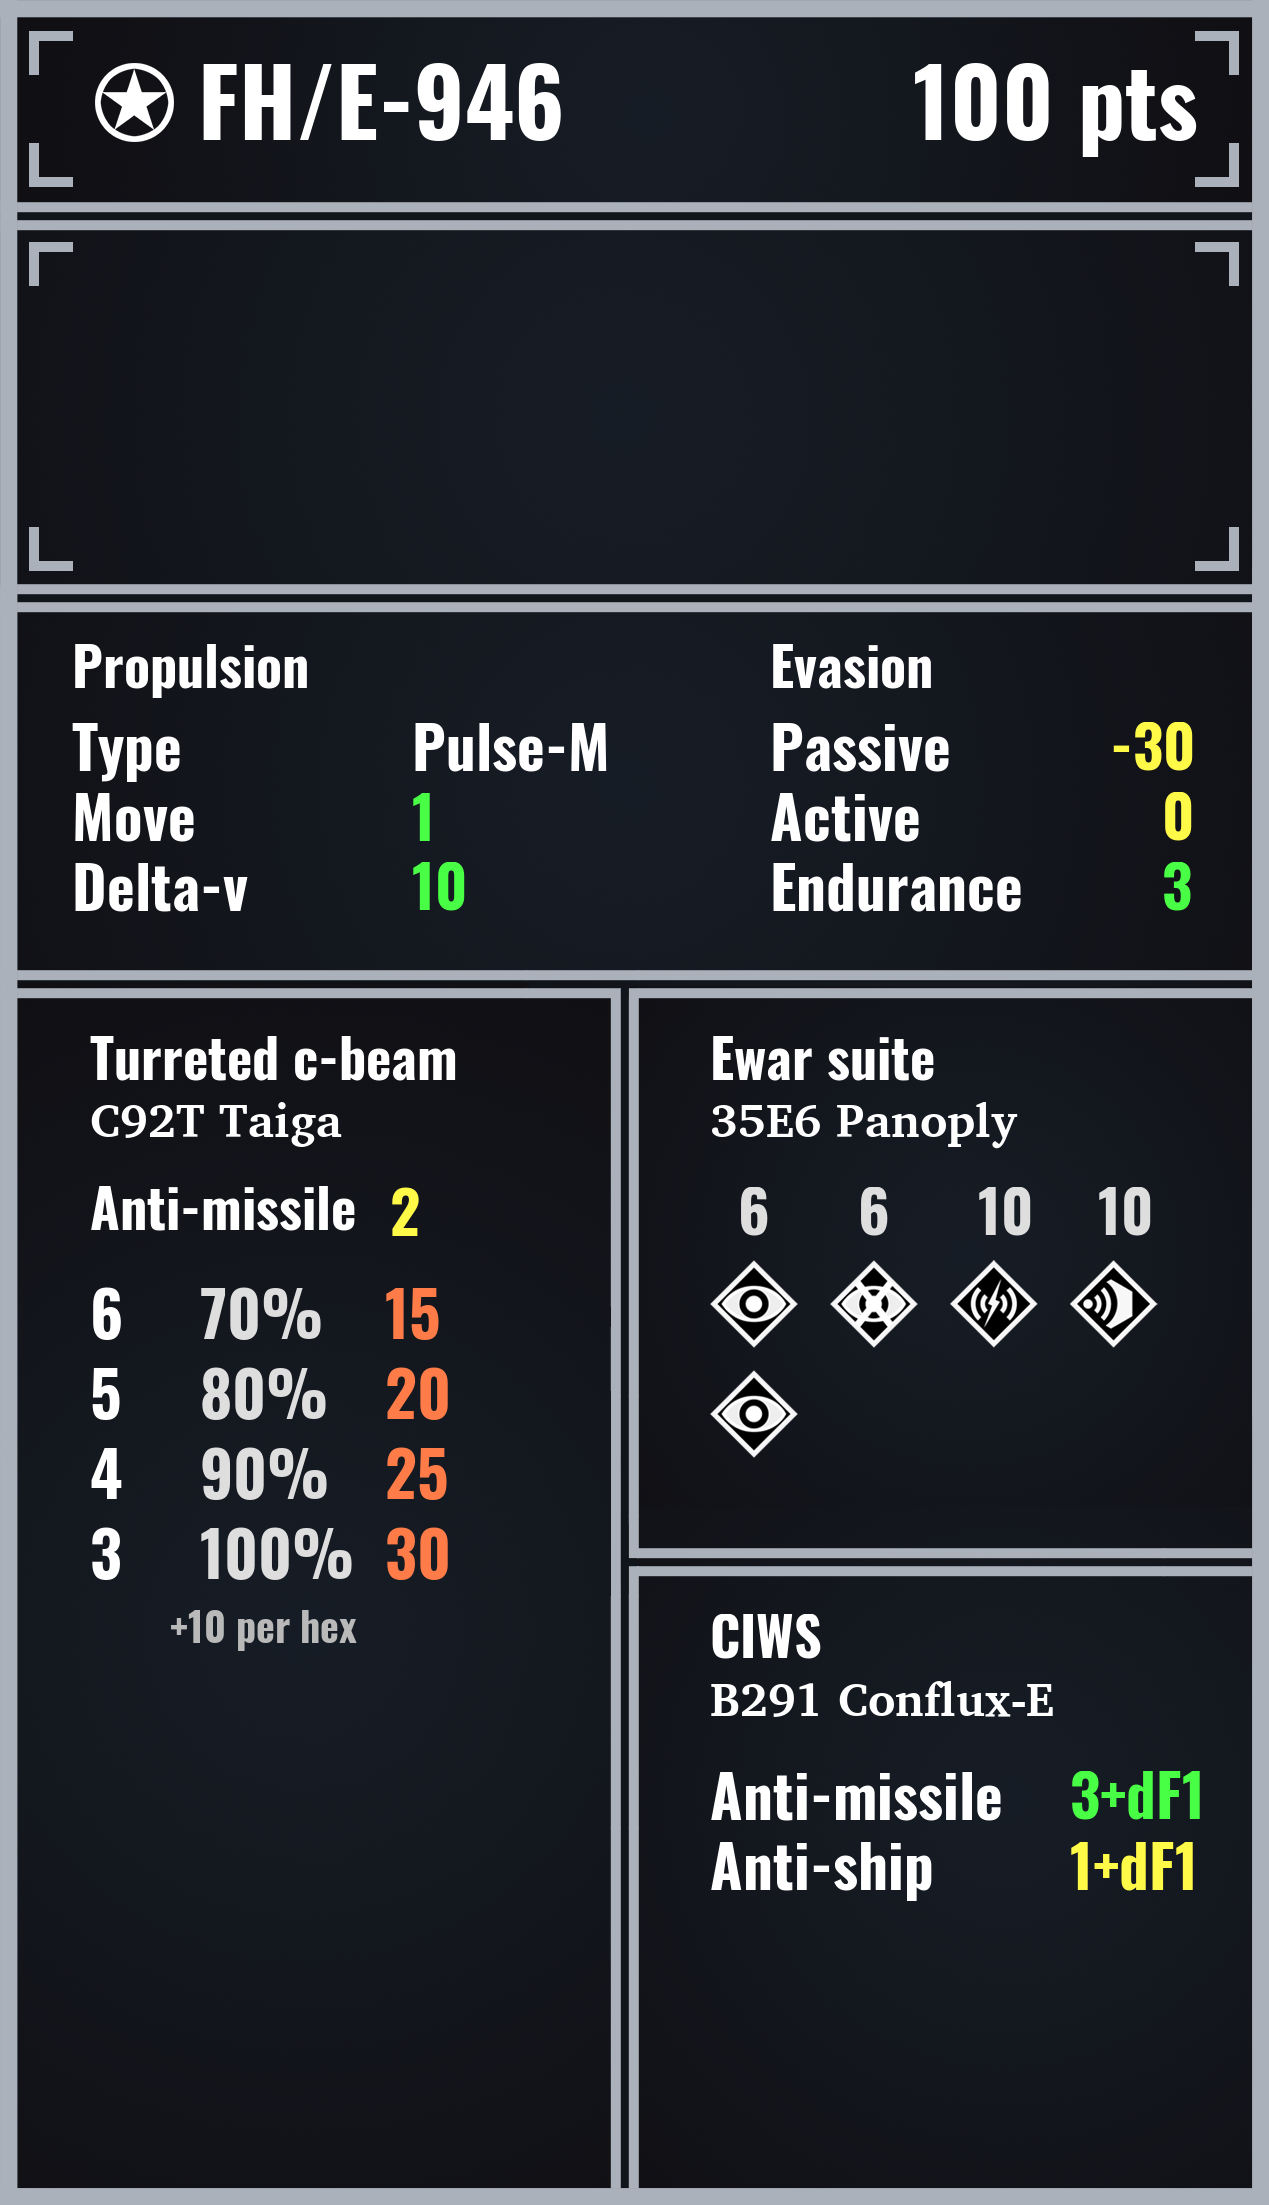
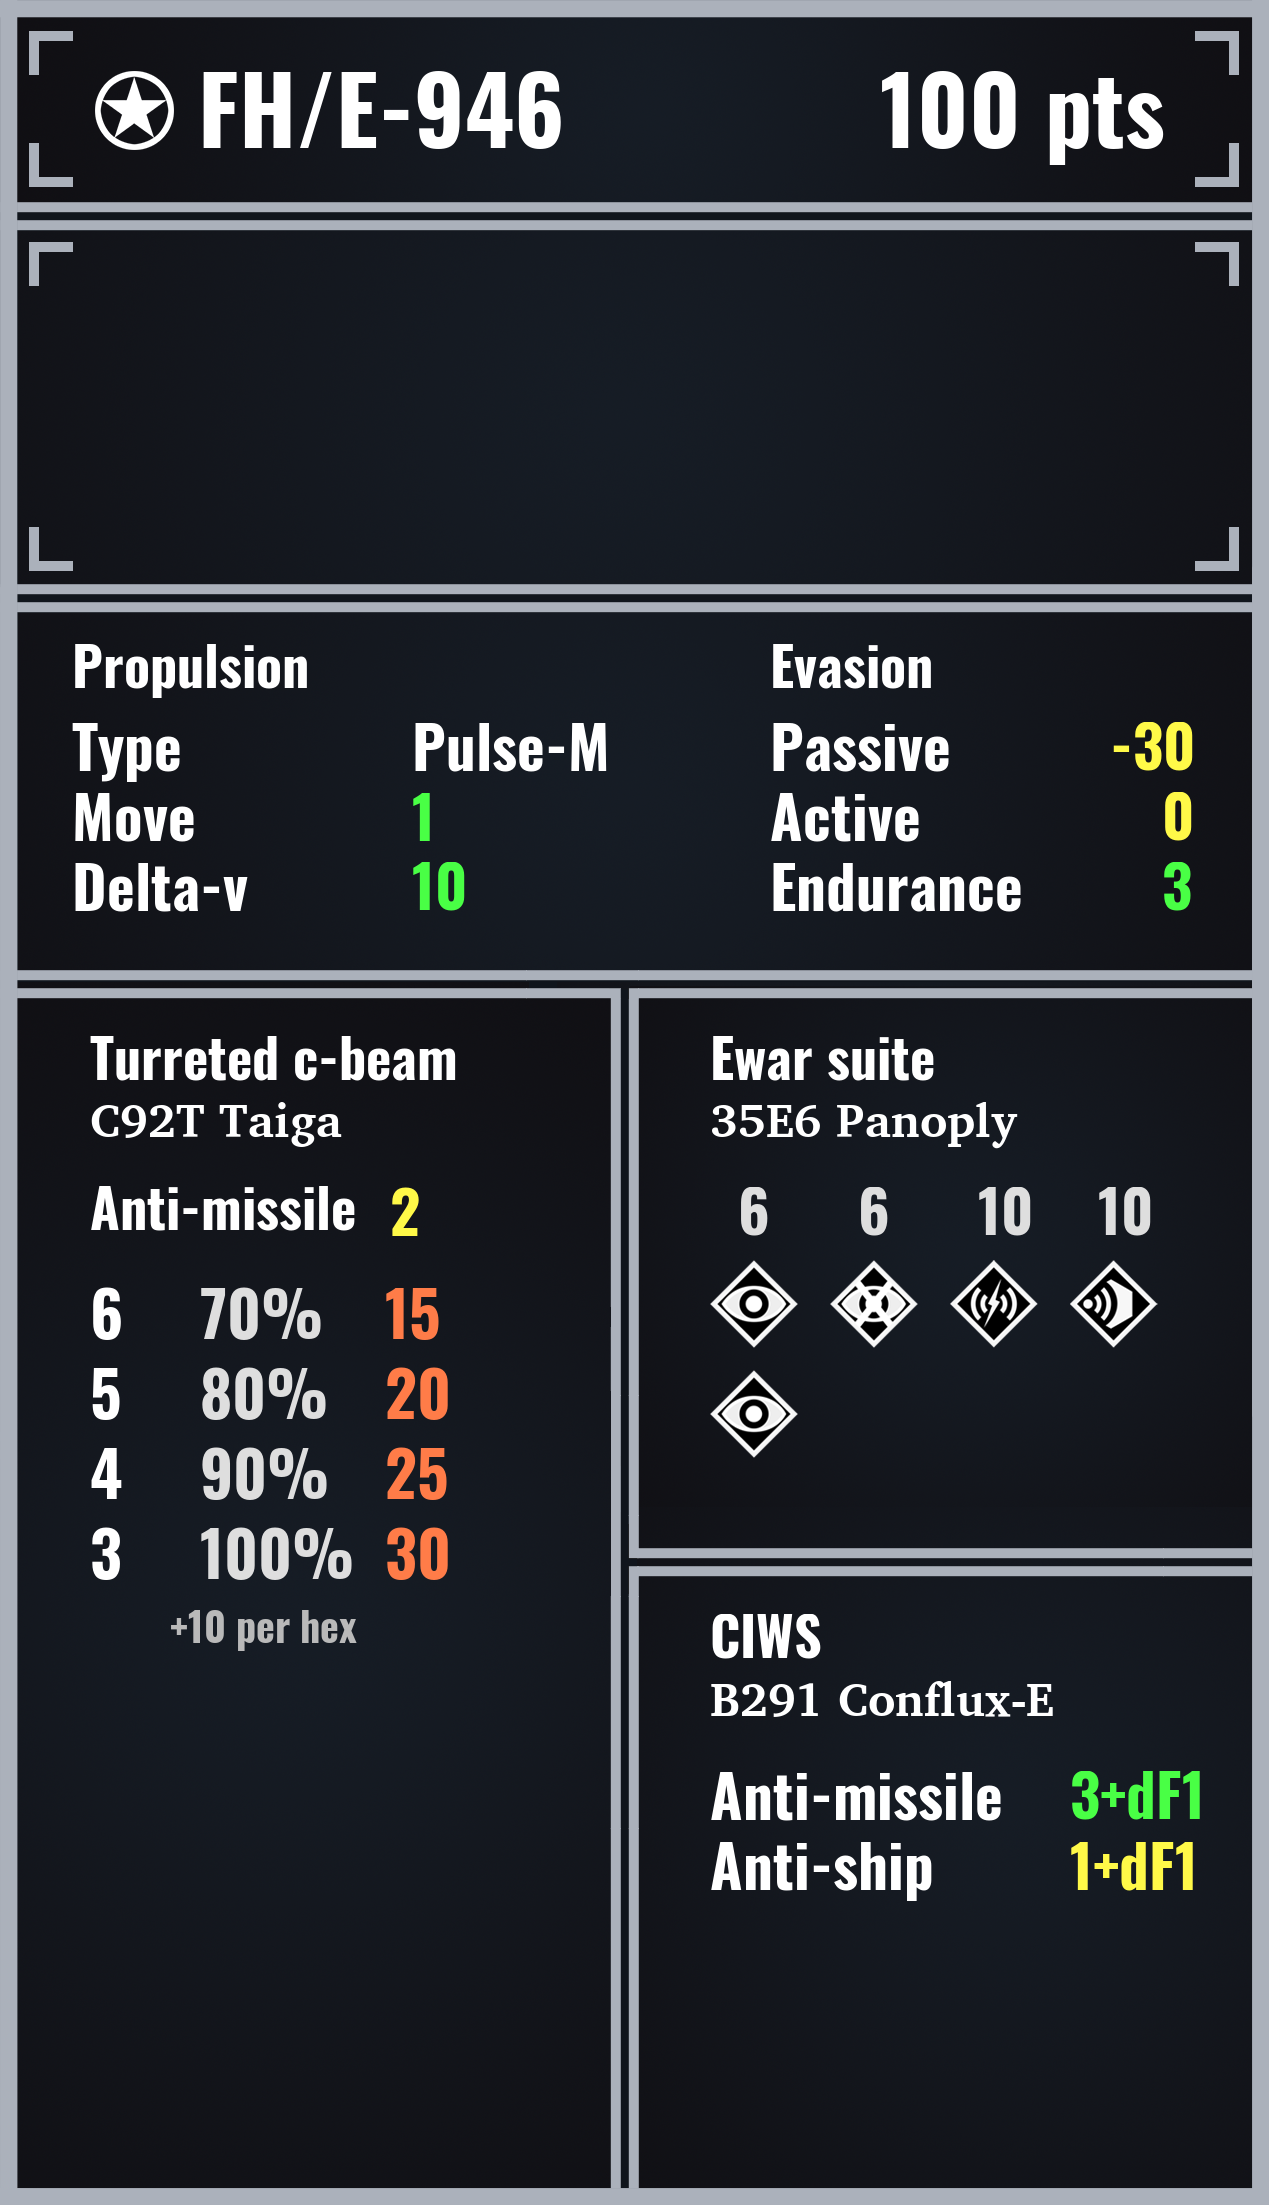
Adjust etitle placement on cards

Changed region(s): [[0.6761, 0.0308, 0.9527, 0.0925], [0.2459, 0.0308, 0.461, 0.0617], [0.0615, 0.0308, 0.2151, 0.0925]]

diff --git a/application/cardgenerator/card_generator.py b/application/cardgenerator/card_generator.py
@@ -16,12 +16,12 @@ class CardGenerator():
         
         # Draw title and cost. If ship is command-capable, move title a little way to the right and draw command icon.
         if ship.command_capable:
-            drawer.text(xy=(198, 27), text=ship.name, fill=(255,255,255), font=self.ship_title_font)
-            self.card.alpha_composite(self.cmd_star, (95,63))
+            drawer.text(xy=(198, 35), text=ship.name, fill=(255,255,255), font=self.ship_title_font)
+            self.card.alpha_composite(self.cmd_star, (95,71))
         else:
-            drawer.text(xy=(93, 27), text=ship.name, fill=(255,255,255), font=self.ship_title_font)
+            drawer.text(xy=(93, 35), text=ship.name, fill=(255,255,255), font=self.ship_title_font)
 
-        drawer.text(xy=(913, 27), text=str(ship.cost)+" pts", fill=(255,255,255), font=self.ship_title_font)
+        drawer.text(xy=(880, 35), text=str(ship.cost)+" pts", fill=(255,255,255), font=self.ship_title_font)
 
         # Draw subsection titles
         drawer.text(xy=(72,623), text="Propulsion", fill=(255,255,255), font=self.sub_title_font)
